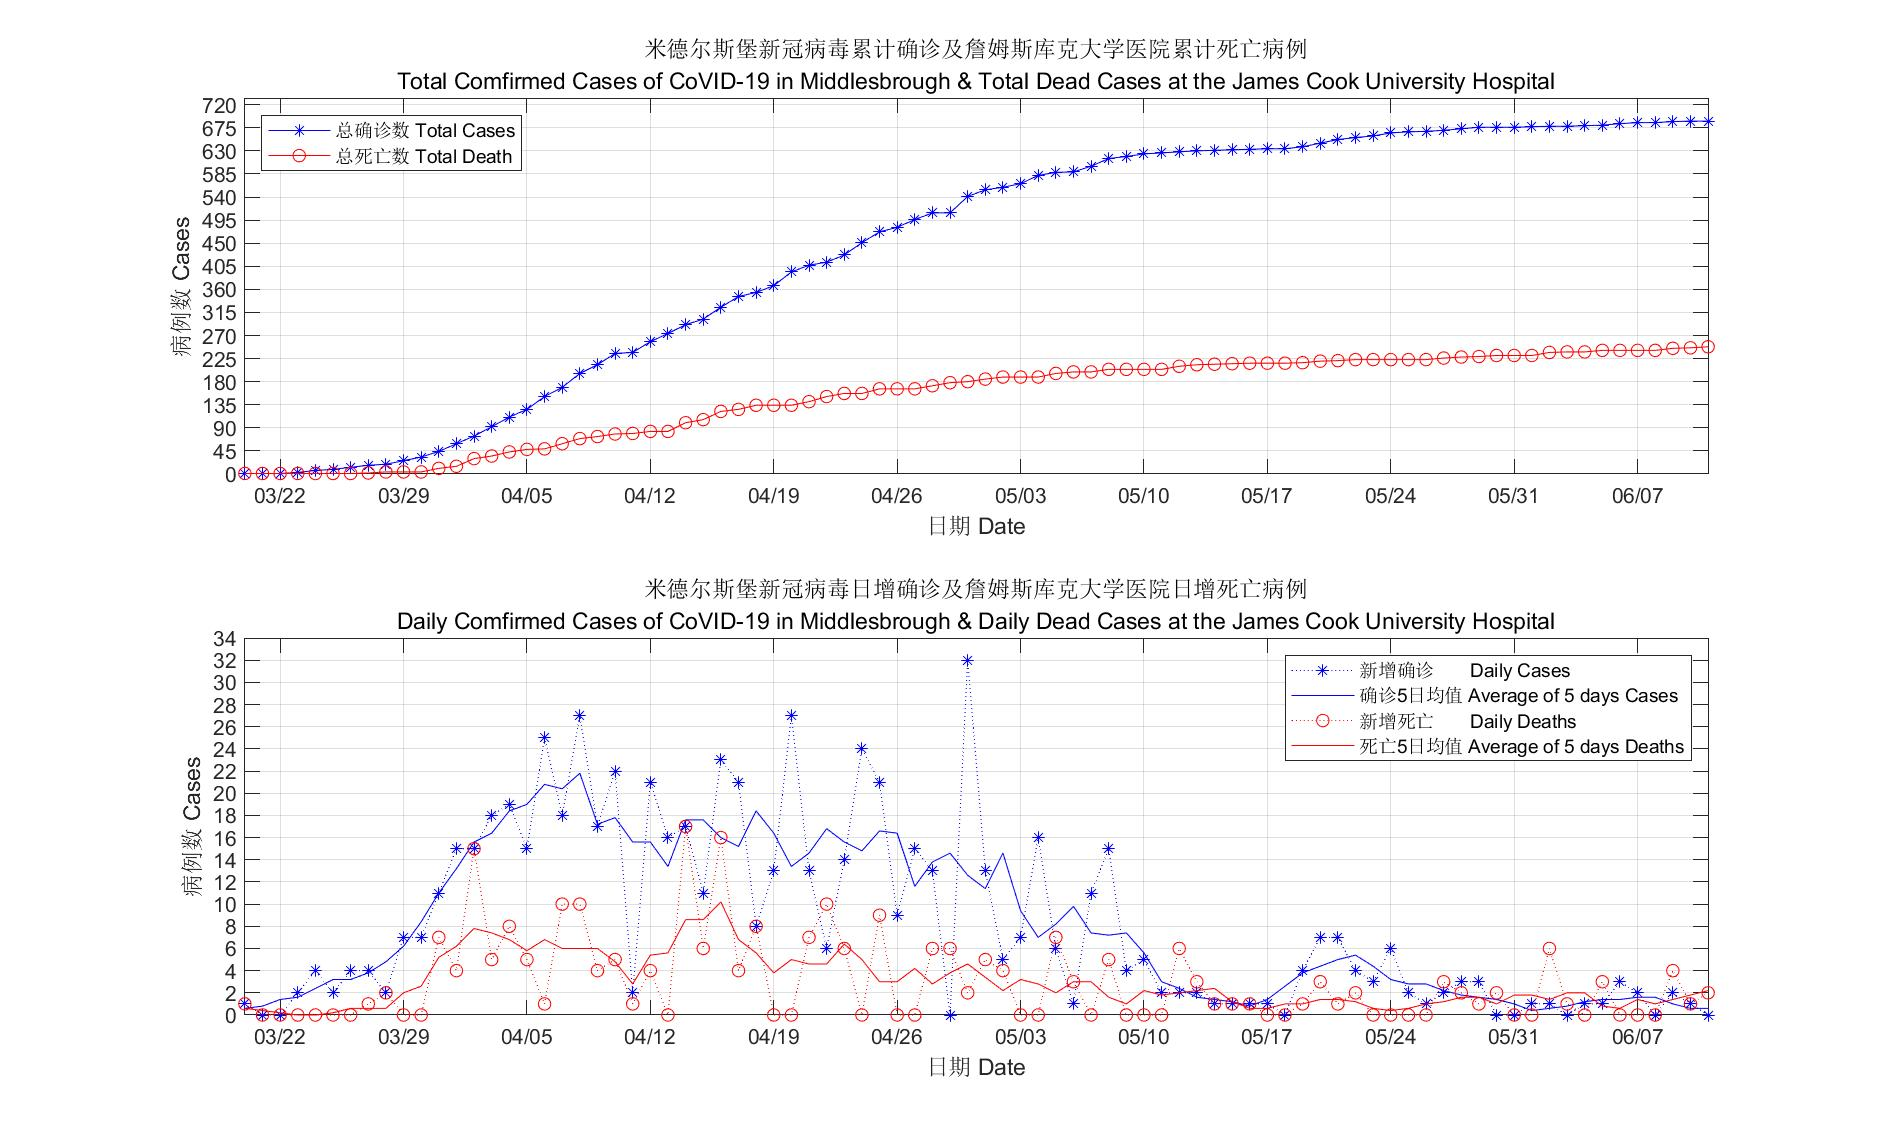
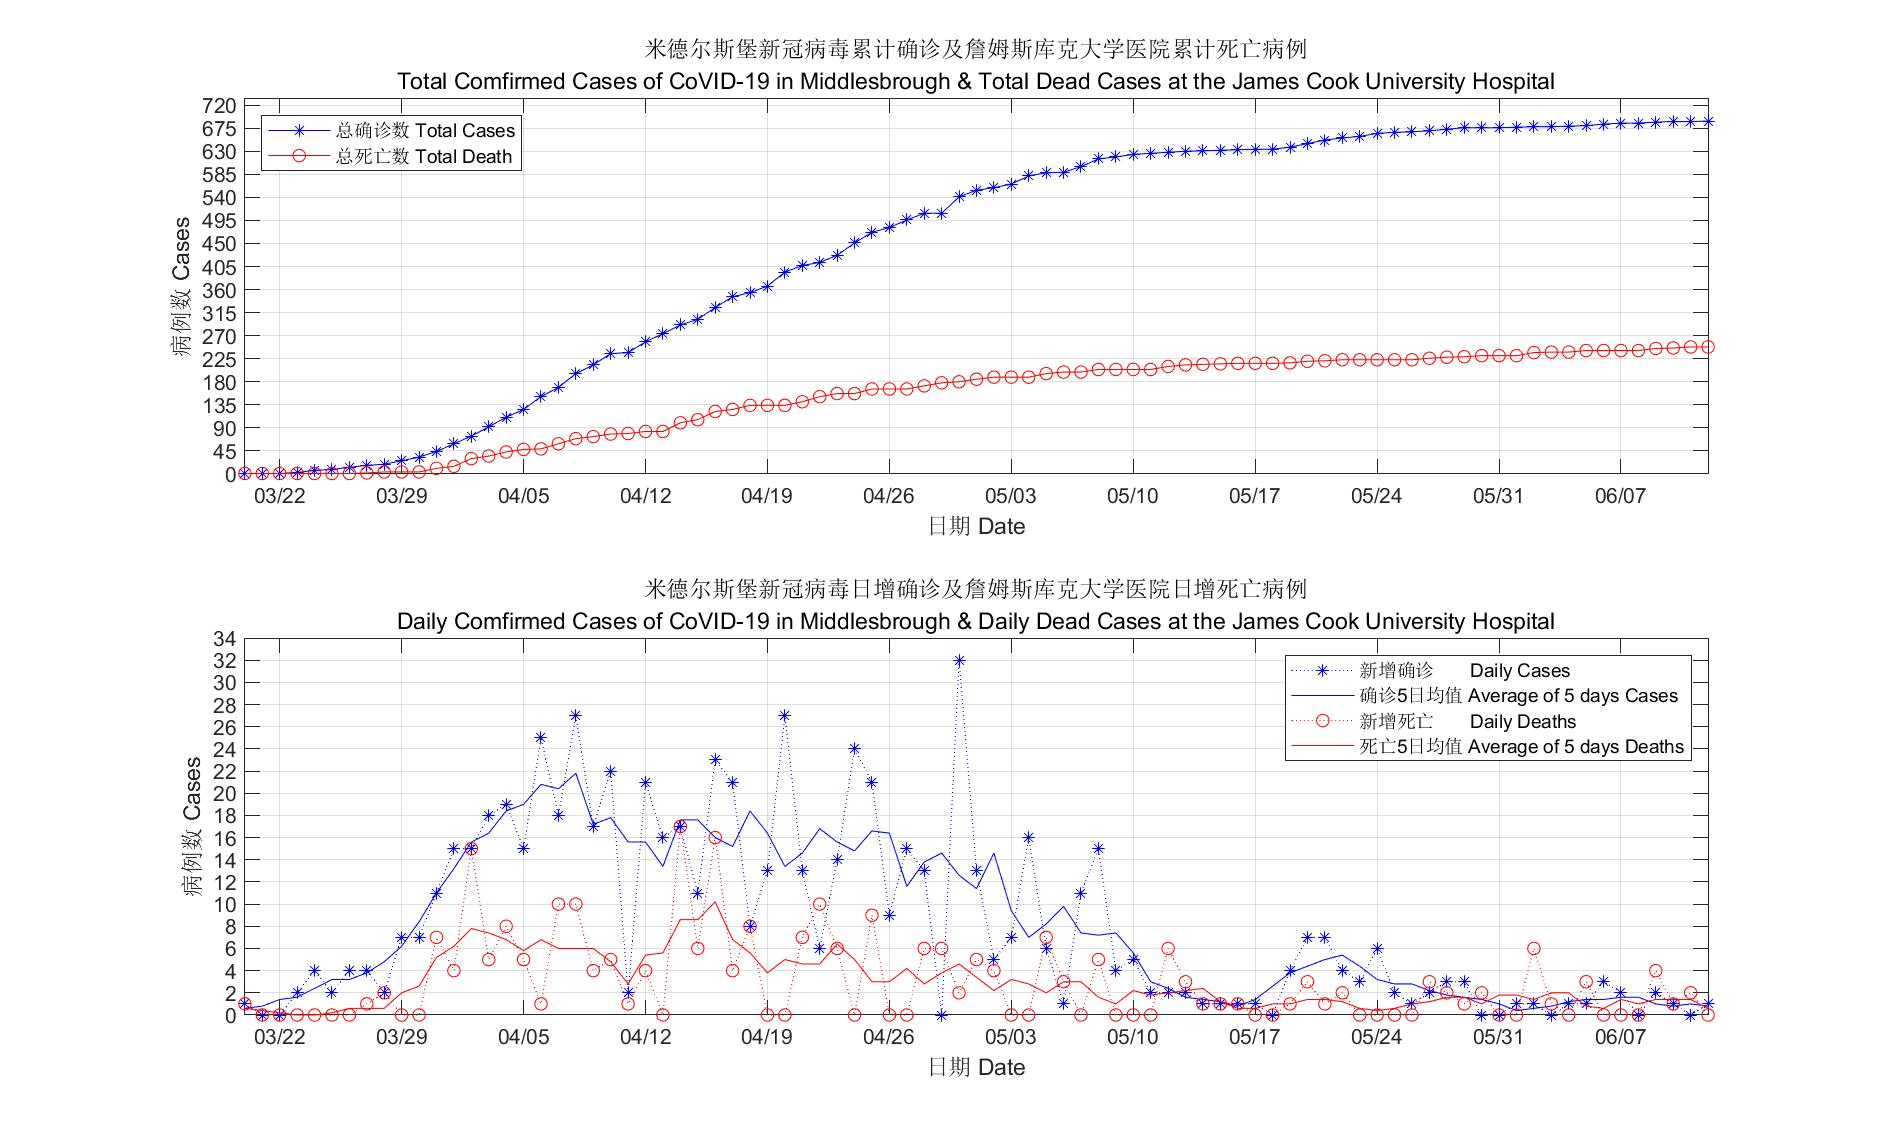
Update, saveing figure in png function is added to python version.

diff --git a/Covid19_TS1.py b/Covid19_TS1.py
@@ -1,6 +1,7 @@
 #Figure of CoVid-19 Case in Middlesbrough(Python version)
 #Coded by dxb 05-05-2020
-#Update on 06-08-2020
+#Revise on 06-12-2020
+#Update on 06-12-2020
 
 import numpy
 import matplotlib.pyplot
@@ -13,13 +14,13 @@ cases = [1, 1, 1, 3, 7, 9, 13, 17, 19, 26, 33, 44, 59, 74, 92, 111, 126, 151, 16
     235, 237, 258, 274, 291, 302, 325, 346, 354, 367, 394, 407, 413, 427, 451, 472, 481, 496,\
     509, 509, 541, 554, 559, 566, 582, 588, 589, 600, 615, 619, 624, 626, 628, 630, 631, 632,\
     633, 634, 634, 638, 645, 652, 656, 659, 665, 667, 668, 670, 673, 676, 676, 676, 677, 678,\
-    678, 679, 680, 683, 685, 685, 687, 688, 688]
+    678, 679, 680, 683, 685, 685, 687, 688, 688, 689]
 #deaths data from NHS
 dcases = [1, 1, 1, 1, 1, 1, 1, 2, 4, 4, 4, 11, 15, 30, 35, 43, 48, 49, 59, 69, 73, 78, 79, 83,\
     83, 100, 106, 122, 126, 134, 134, 134, 141, 151, 157, 157, 166, 166, 166, 172, 178, 180,\
     185, 189, 189, 189, 196, 199, 199, 204, 204, 204, 204, 210, 213, 214, 215, 216, 216, 216,\
     217, 220, 221, 223, 223, 223, 223, 223, 226, 228, 229, 231, 231, 231, 237, 238, 238, 241,\
-    241, 241, 241, 245, 246, 248]
+    241, 241, 241, 245, 246, 248, 248]
 
 #Initial
 #Date config
@@ -51,7 +52,6 @@ for i in range(len(avincrease)):
     avdincrease[i] = (endincrease[i]+endincrease[i+1]+endincrease[i+2]+endincrease[i+3]+endincrease[i+4]) / 5.0
 
 #Plot
-fig = matplotlib.pyplot.figure()
 matplotlib.pyplot.rcParams['font.sans-serif'] = ['SimHei']    # 用来正常显示中文标签
 matplotlib.pyplot.rcParams['axes.unicode_minus'] = False      # 用来正常显示负号
 #Total cases plot
@@ -97,8 +97,12 @@ matplotlib.pyplot.grid(True)
 figManager = matplotlib.pyplot.get_current_fig_manager()
 figManager.resize(*figManager.window.maxsize())
 matplotlib.pyplot.subplots_adjust(left=0.05, right=0.99, top=0.9, bottom=0.08, wspace=0, hspace=0.4)
-matplotlib.pyplot.show()
 
-# Save figure
-print('savefig...')
+# Show and save figure
+fig = matplotlib.pyplot.gcf()
+fig.show()                                #Ensure png save in right scale
+print('savefig in png...')
+fig.savefig('COVID19_TS1.png')
+matplotlib.pyplot.show()                  #Ensure pdf save in right scale
+print('savefig in pdf...')
 fig.savefig('COVID19_TS1.pdf')

diff --git a/covid19_TS1.m b/covid19_TS1.m
@@ -1,7 +1,7 @@
 %Figure of CoVid-19 Case in Middlesbrough
 %Coded by dxb 2020.4.1
 %Revised on 06-08-2020
-%Updated on 06-08-2020
+%Updated on 06-12-2020
 
 %Data source Need to update by day
 %cases data from the UK government
@@ -9,13 +9,13 @@ cases = [1 1 1 3 7 9 13 17 19 26 33 44 59 74 92 111 126 151 169 196 213 ...
     235 237 258 274 291 302 325 346 354 367 394 407 413 427 451 472 481 ...
     496 509 509 541 554 559 566 582 588 589 600 615 619 624 626 628 630 ...
     631 632 633 634 634 638 645 652 656 659 665 667 668 670 673 676 676 ...
-    676 677 678 678 679 680 683 685 685 687 688 688];
+    676 677 678 678 679 680 683 685 685 687 688 688 689];
 %deaths data from NHS
 dcases = [1 1 1 1 1 1 1 2 4 4 4 11 15 30 35 43 48 49 59 69 73 78 79 83 ...
     83 100 106 122 126 134 134 134 141 151 157 157 166 166 166 172 178 ...
     180 185 189 189 189 196 199 199 204 204 204 204 210 213 214 215 216 ...
     216 216 217 220 221 223 223 223 223 223 226 228 229 231 231 231 237 ...
-    238 238 241 241 241 241 245 246 248];
+    238 238 241 241 241 241 245 246 248 248];
 
 %Initial
 %Date config
